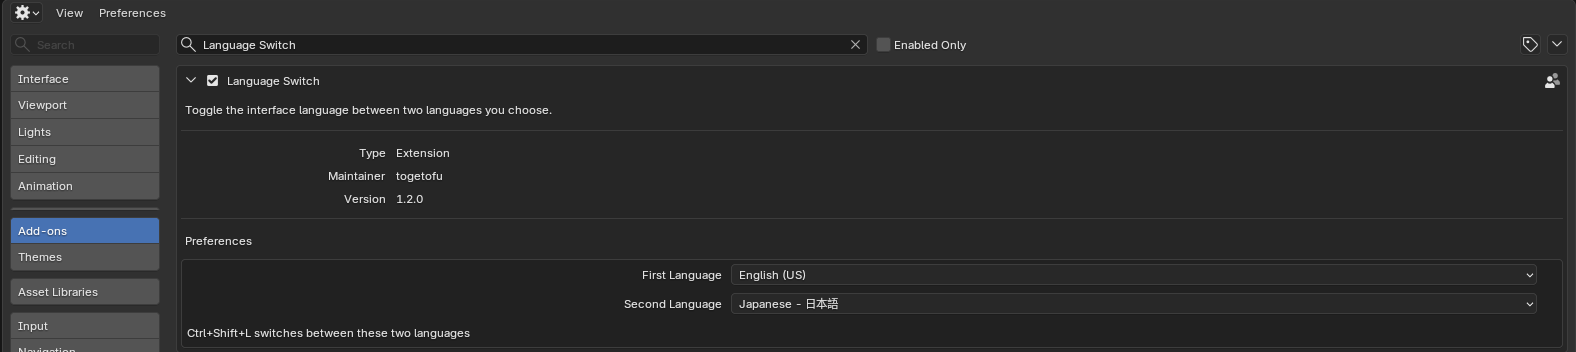
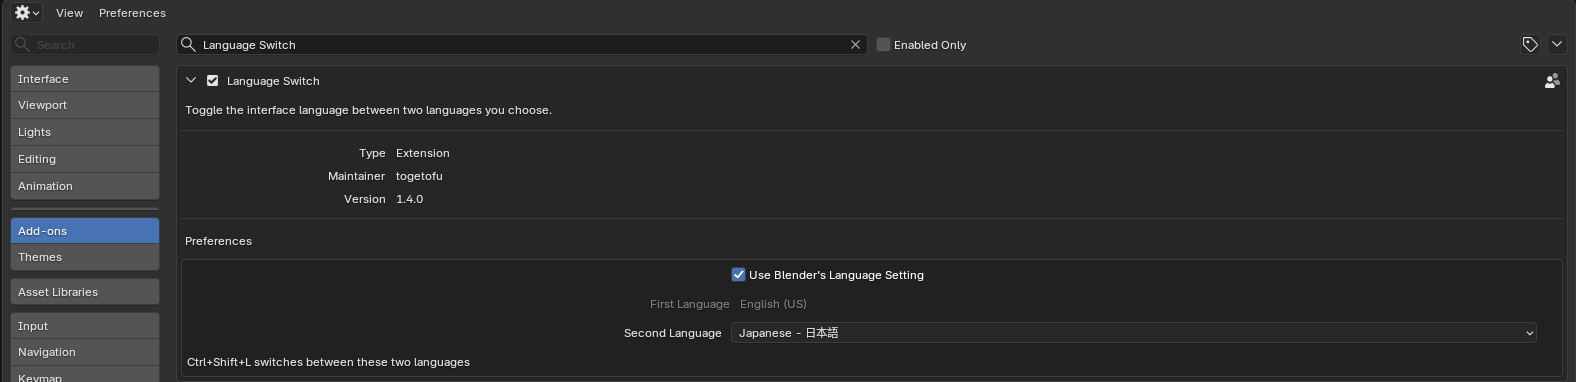
Language Switch 1.4.0
- Use Blender's Language Setting (on by default): the first language
  follows Preferences > Interface > Language; it is remembered while the
  second language is shown, also across restarts, and Automatic comes
  back as Automatic.
- Works with Blender 4.5 LTS: the language list no longer comes from
  the enum items in bl_rna (4.5 lists only Automatic there), and the
  language enums are numbered by identifier so they keep their value
  when the interface language changes.

diff --git a/__init__.py b/__init__.py
@@ -5,10 +5,12 @@
 """Switch the interface language between two languages in one click.
 
 Two buttons at the right end of the Top Bar ("EN" and "JA" by default) and one shortcut,
-Ctrl+Shift+L, which toggles between the two. The first language is English and the second one is
-Japanese unless others are chosen in the add-on preferences. Switching to a translated language
-also turns on the translation of the interface, tooltips and reports (Preferences > Interface >
-Translation), which is what makes the switch visible; new data names are left alone.
+Ctrl+Shift+L, which toggles between the two. The first language is the one set in Preferences >
+Interface > Language ("Use Blender's Language Setting", on by default) or one chosen in the add-on
+preferences (English by default); the second one is Japanese unless another one is chosen there.
+Switching to a translated language also turns on the translation of the interface, tooltips and
+reports (Preferences > Interface > Translation), which is what makes the switch visible; new data
+names are left alone.
 
 The preference is changed like any other one, so it is saved with the preferences as usual.
 Written for Falcon Engine; the idea (a one-click language toggle) is the same as the language
@@ -18,8 +20,8 @@ switch add-ons on extensions.blender.org, no code is taken from them.
 bl_info = {
     "name": "Language Switch",
     "author": "togetofu",
-    "version": (1, 2, 0),
-    "blender": (5, 2, 0),
+    "version": (1, 4, 0),
+    "blender": (4, 5, 0),
     "location": "Top Bar (right end), Ctrl+Shift+L",
     "description": "Switch the interface language between two languages",
     "category": "Interface",
@@ -28,7 +30,7 @@ bl_info = {
 import bpy
 from bpy.app.translations import pgettext_rpt as rpt_
 from bpy.app.translations import pgettext_tip as tip_
-from bpy.props import EnumProperty, StringProperty
+from bpy.props import BoolProperty, EnumProperty, StringProperty
 
 ENGLISH = 'en_US'
 DEFAULT_FIRST = ENGLISH
@@ -42,9 +44,14 @@ _language_items_store = []
 
 def _languages():
     """{identifier: name} of the languages this build offers."""
+    # The items of the language enum are dynamic, and Blender 4.5 lists only the static one
+    # ("Automatic") in bl_rna, so the identifiers come from the translations instead.
     try:
-        prop = bpy.context.preferences.view.bl_rna.properties["language"]
-        return {item.identifier: item.name for item in prop.enum_items}
+        view = bpy.context.preferences.view
+        identifiers = ['DEFAULT', ENGLISH, *bpy.app.translations.locales]
+        names = {identifier: bpy.types.UILayout.enum_item_name(view, "language", identifier)
+                 for identifier in identifiers}
+        return {identifier: name for identifier, name in names.items() if name}
     except Exception:
         return {}
 
@@ -59,13 +66,17 @@ def _prefs(context=None):
     return addon.preferences if addon else None
 
 
+def _resolve(language):
+    """Resolves "Automatic" to the language Blender uses."""
+    if language == 'DEFAULT':
+        return bpy.app.translations.locale or ENGLISH
+    return language
+
+
 def current_language(context=None):
     """The language in effect (resolves "Automatic" to what Blender uses)."""
     context = context or bpy.context
-    language = context.preferences.view.language
-    if language == 'DEFAULT':
-        language = bpy.app.translations.locale or ENGLISH
-    return language
+    return _resolve(context.preferences.view.language)
 
 
 def _chosen(context, name, default):
@@ -75,8 +86,29 @@ def _chosen(context, name, default):
 
 
 def first_language(context=None):
-    """The first language chosen in the add-on preferences (English by default)."""
+    """The first language: the one set in Preferences > Interface when "Use Blender's Language
+    Setting" is on (the last one set there while the second language is shown), else the one
+    chosen in the add-on preferences (English by default). May be "DEFAULT" (Automatic)."""
+    context = context or bpy.context
+    prefs = _prefs(context)
+    if prefs and prefs.use_blender_language:
+        language = context.preferences.view.language
+        if _resolve(language) != second_language(context):
+            return language
+        return prefs.home_language if prefs.home_language in _languages() else ENGLISH
     return _chosen(context, "first_language", DEFAULT_FIRST)
+
+
+def first_language_resolved(context=None):
+    """The first language with "Automatic" resolved. While another language is shown, Blender
+    resolves "Automatic" to that one, so the language it stood for is the remembered one."""
+    context = context or bpy.context
+    language = first_language(context)
+    prefs = _prefs(context)
+    if (language == 'DEFAULT' and prefs and prefs.use_blender_language
+            and context.preferences.view.language != 'DEFAULT' and prefs.home_resolved):
+        return prefs.home_resolved
+    return _resolve(language)
 
 
 def second_language(context=None):
@@ -89,9 +121,15 @@ def short_code(language):
     return (language or "?").split("_")[0].split("@")[0].upper()
 
 
-def set_language(context, language):
+def set_language(context, language, remember=True):
     view = context.preferences.view
-    if not _is_english(language):
+    prefs = _prefs(context)
+    if (remember and prefs and prefs.use_blender_language
+            and current_language(context) != second_language(context)):
+        # The language set in Blender, to come back to from the second language.
+        prefs.home_language = view.language
+        prefs.home_resolved = current_language(context)
+    if not _is_english(_resolve(language)):
         # Otherwise the switch would change nothing on screen.
         view.use_translate_interface = True
         view.use_translate_tooltips = True
@@ -100,9 +138,12 @@ def set_language(context, language):
 
 
 def _language_items(self, context):
+    languages = _languages()
+    # Numbered by identifier: the names follow the interface language, so their order changes.
+    numbers = {identifier: index for index, identifier in enumerate(sorted(languages))}
     _language_items_store[:] = [
-        (identifier, name, "", index)
-        for index, (identifier, name) in enumerate(sorted(_languages().items(), key=lambda kv: kv[1]))
+        (identifier, name, "", numbers[identifier])
+        for identifier, name in sorted(languages.items(), key=lambda kv: kv[1])
         if identifier != 'DEFAULT'
     ]
     return _language_items_store
@@ -128,7 +169,7 @@ def _language_choice(stored_name, other_name):
                 # Already showing the old language (and it is not the other one too): show the new
                 # one right away.
                 if switch:
-                    set_language(context, identifier)
+                    set_language(context, identifier, remember=False)
                 return
 
     return get, set
@@ -141,6 +182,21 @@ _second_get, _second_set = _language_choice("second_language", "first_language")
 class FalconLanguagePreferences(bpy.types.AddonPreferences):
     bl_idname = __package__
 
+    use_blender_language: BoolProperty(
+        name="Use Blender's Language Setting",
+        description="Use the language set in Preferences > Interface > Language as the first language",
+        default=True,
+    )
+    # The language set in Blender before switching to the second one ("DEFAULT" for Automatic).
+    home_language: StringProperty(
+        name="Home Language",
+        default="",
+    )
+    # What "Automatic" stood for when it was remembered.
+    home_resolved: StringProperty(
+        name="Home Language (Resolved)",
+        default="",
+    )
     # Stored as the identifier ("ja_JP"), so it survives builds whose language lists differ.
     first_language: StringProperty(
         name="First Language",
@@ -168,9 +224,20 @@ class FalconLanguagePreferences(bpy.types.AddonPreferences):
     def draw(self, context):
         layout = self.layout
         layout.use_property_split = True
-        layout.prop(self, "first_language_choice")
+        layout.prop(self, "use_blender_language")
+        if self.use_blender_language:
+            # Shown greyed out: it follows Preferences > Interface > Language.
+            first = first_language_resolved(context)
+            split = layout.split(factor=0.4)
+            split.enabled = False
+            row = split.row()
+            row.alignment = 'RIGHT'
+            row.label(text=tip_("First Language"))
+            split.label(text=_languages().get(first, first), translate=False)
+        else:
+            layout.prop(self, "first_language_choice")
         layout.prop(self, "second_language_choice")
-        if first_language(context) == second_language(context):
+        if first_language_resolved(context) == second_language(context):
             layout.label(text=tip_("Choose two different languages"), icon='ERROR')
         layout.label(text=tip_("Ctrl+Shift+L switches between these two languages"))
 
@@ -210,7 +277,7 @@ class WM_OT_falcon_language_toggle(bpy.types.Operator):
         second = second_language(context)
         # Any language other than the first one (the second one, or one chosen elsewhere) goes
         # back to the first one.
-        target = second if current_language(context) == first else first
+        target = second if current_language(context) == first_language_resolved(context) else first
         if target not in _languages():
             self.report({'WARNING'}, rpt_("Language not available: %s") % target)
             return {'CANCELLED'}
@@ -224,9 +291,11 @@ def draw_topbar(self, context):
         return
     current = current_language(context)
     row = self.layout.row(align=True)
-    for language in (first_language(context), second_language(context)):
-        props = row.operator("wm.falcon_language_set", text=short_code(language), translate=False,
-                             depress=current == language)
+    second = second_language(context)
+    for language, resolved in ((first_language(context), first_language_resolved(context)),
+                               (second, second)):
+        props = row.operator("wm.falcon_language_set", text=short_code(resolved),
+                             translate=False, depress=current == resolved)
         props.language = language
 
 
